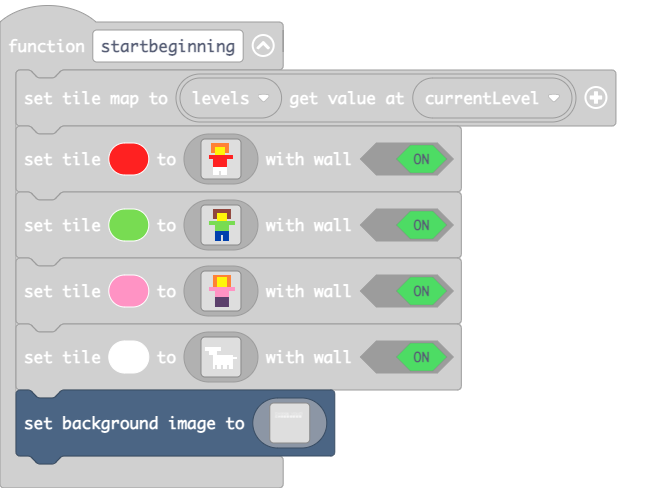
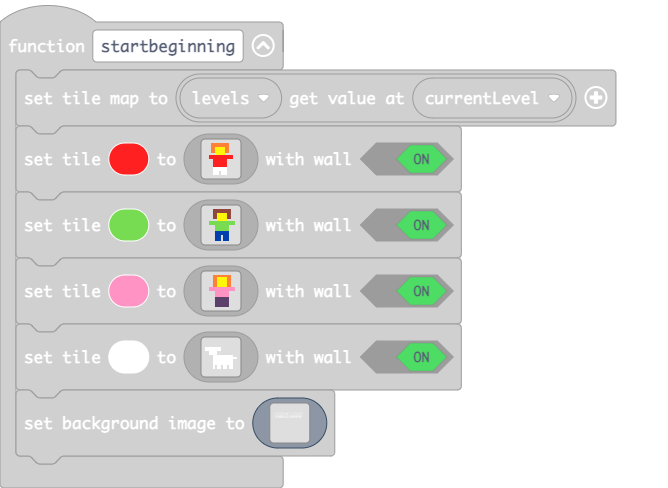
Update main.blocks, main.ts

Changed region(s): [[0.0, 0.7992, 0.509, 0.9529]]

diff --git a/main.ts b/main.ts
@@ -93,19 +93,19 @@ function startbeginning () {
         ........1111111111...1.....1.....1111111...1111111...........1...1.........................1.......1...........1....1.......1.....1.......1.....................
         .......................................................11111111..1....11111................1........1.........1.....1.......1.....1........1....................
         .................................................................11111.....................1.........1.......1......1.......1.....1.........11..................
-        ...........................................................................................1..........1111111.......1.......1.....1...........1.................
-        ...........................................................................................1................................1......1...........1................
+        ...........................................................................................1..........1...111.......1.......1.....1...........1.................
+        ...........................................................................................1................................1..................1................
         ............................................................................................1.............................111...................................
-        ........1111111111....111....111....1111111111....1111111111.....1111111111......1111111111....1111111111......1111111111......1111111111.......................
-        ........1111111111....111....111....1111111111....1111111111.....1111111111......1111111111....1111111111......1111111111......1111111111.......................
-        ........11............111....111....1111111111....1111111111.....1111111111......1111111111....1111111111......1111111111......1111111111.......................
-        ........11............1111111111....1111111111....1111111111.....1111111111......1111111111....1111111111......1111111111......1111111111.......................
-        ........11............1111111111....1111111111....1111111111.....1111111111......1111111111....1111111111......1111111111......1111111111.......................
-        ........11............1111111111....1111111111....1111111111.....1111111111......1111111111....1111111111......1111111111......1111111111.......................
-        ........11............111....111..................1111111111.....1111111111......1111111111....1111111111......1111111111......1111111111.......................
-        ........11............111....111....1111111111....1111111111.....1111111111......1111111111....1111111111......1111111111......1111111111.......................
-        ........1111111111....111....111....1111111111....1111111111.....1111111111......1111111111....1111111111......1111111111......1111111111.......................
-        ........1111111111....111....111....1111111111....1111111111.....1111111111......1111111111....1111111111......1111111111......1111111111.......................
+        ........1111111111....111....111...1111111111.....111............111.............1111111111....111.....111.....1111111111.....11111111..........................
+        ........1111111111....111....111...1111111111.....111............111.............1111111111....1111....111.....1111111111.....111111111.........................
+        ........11............111....111...111....111.....111............111.............111...........11111...111.....111............1111111111........................
+        ........11............1111111111...111....111.....111............111.............111...........111111..111.....111............111....111........................
+        ........11............1111111111...111....111.....111............111.............1111111111....111111..111.....1111111111.....111....111........................
+        ........11............1111111111...111....111.....111............111.............1111111111....111.1111111.....1111111111.....1111111111........................
+        ........11............111....111...1111111111.....111............111.............111...........111..111111.....111............1111111111........................
+        ........11............111....111...1111111111.....1111111111.....1111111111......111...........111...11111.....111............111...1111........................
+        ........1111111111....111....111...111....111.....1111111111.....1111111111......1111111111....111....1111.....1111111111.....111....1111.......................
+        ........1111111111....111....111...111....111.....1111111111.....1111111111......1111111111....111.....111.....1111111111.....111.....1111......................
         ................................................................................................................................................................
         ................................................................................................................................................................
         ................................................................................................................................................................
